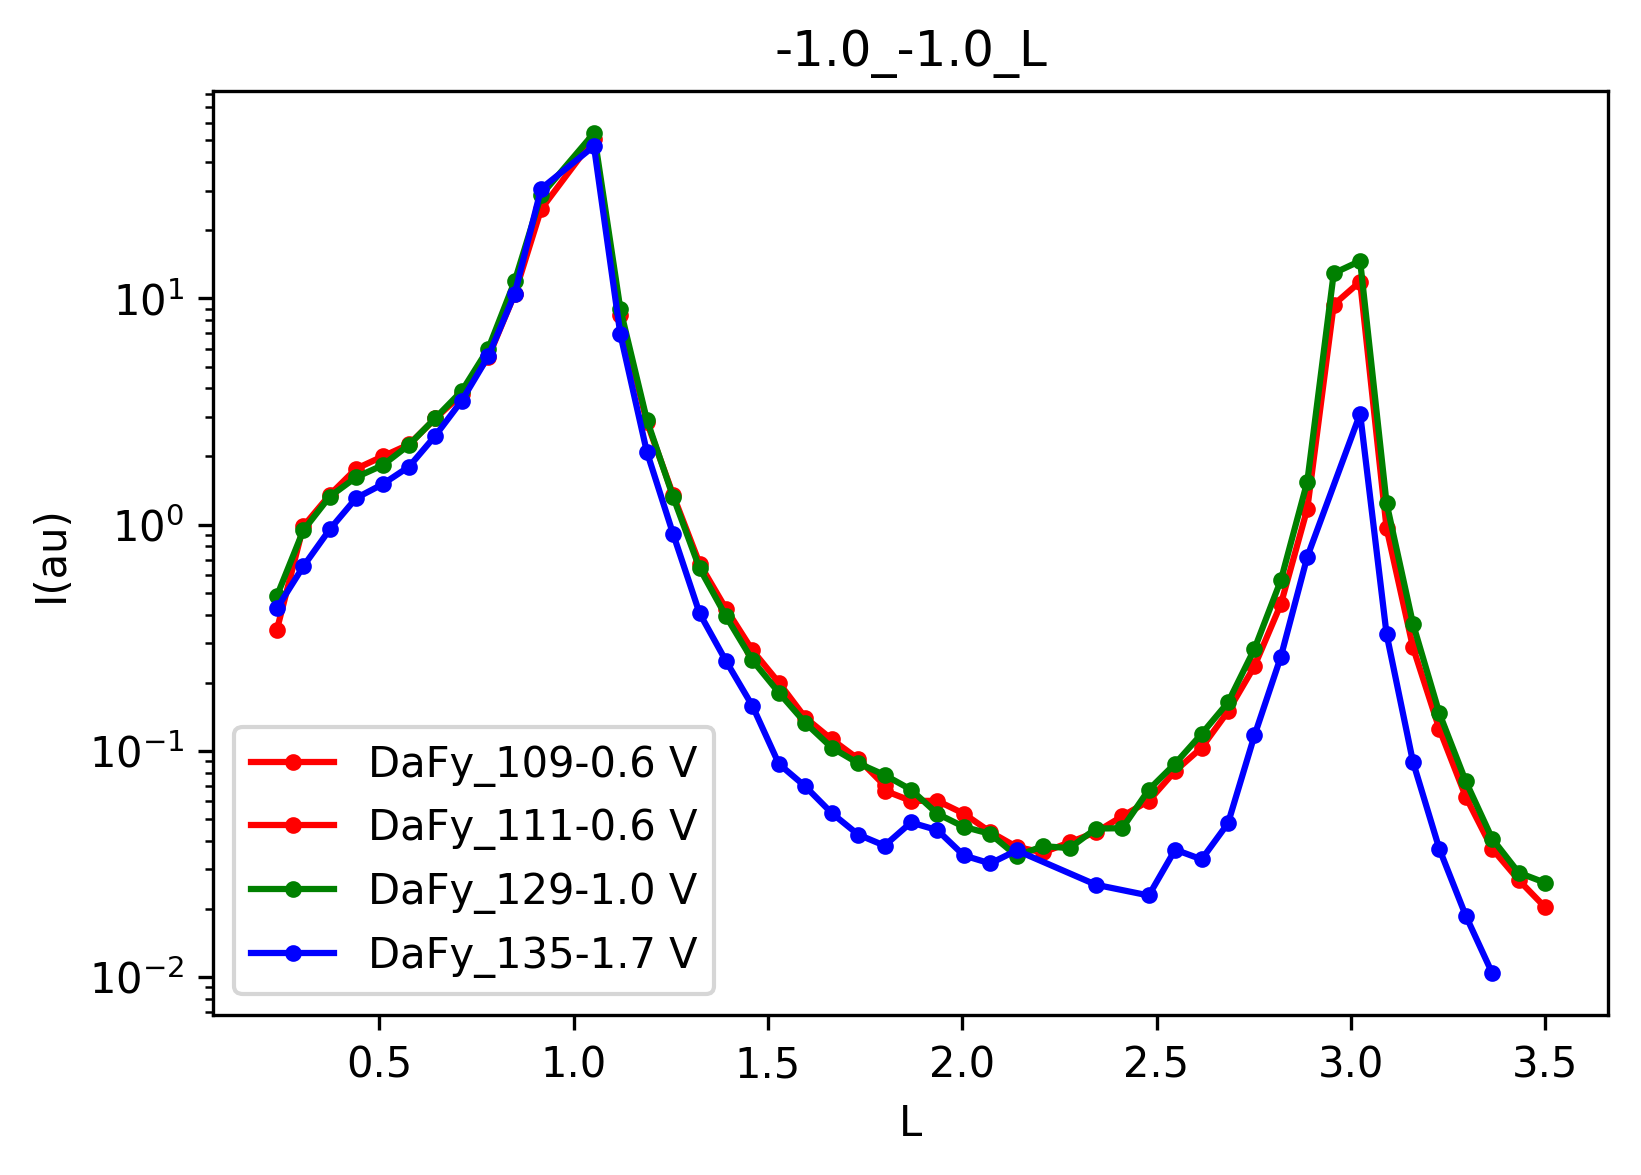
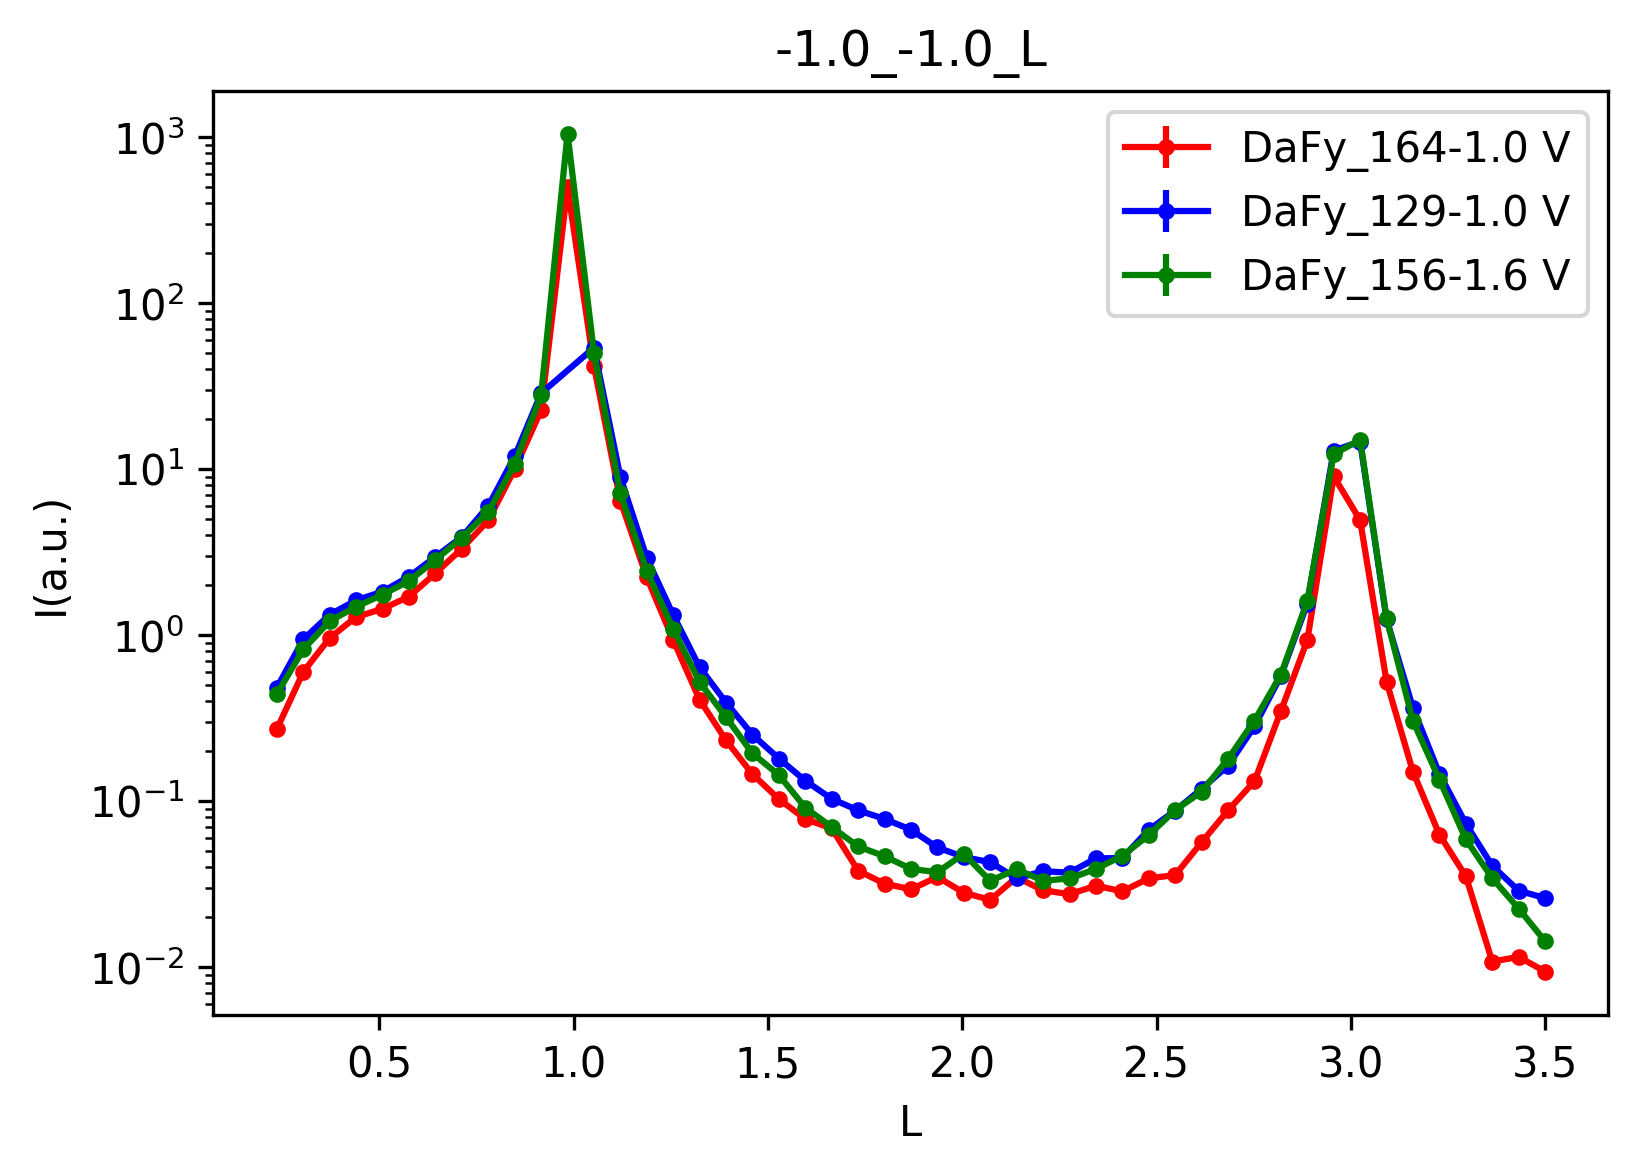
In CV_XRD ploting, it is possible to customize seting max to 0 for strain, size and intensity

diff --git a/CV_XRD_plot_beta.py b/CV_XRD_plot_beta.py
@@ -20,7 +20,7 @@ config_file_name = 'CV_XRD_plot_i20180835_Jul18_2019.ini'
 config_file = os.path.join(DaFy_path, 'config', config_file_name)
 
 #do you want to set the max to 0
-ref_max_eq_0 = 0
+ref_max_eq_0 = {'strain':1,'size':0,'intensity':0}
 
 #specify this for pot step scan
 scan_time = 100 #in seconds
@@ -323,12 +323,12 @@ for scan_id in scan_ids:
             else:
                 new_max = current_max
             return new_min, new_max
-        update_max_min = [_update_min_max_or_not,_update_min_or_not][ref_max_eq_0]
-        ip_strain_min, ip_strain_max = update_max_min(ip_strain_min,ip_strain_max, strain_ip_temp)
-        oop_strain_min, oop_strain_max = update_max_min(oop_strain_min,oop_strain_max, strain_oop_temp)
-        ip_size_min, ip_size_max = update_max_min(ip_size_min,ip_size_max, size_ip_temp)
-        oop_size_min, oop_size_max = update_max_min(oop_size_min,oop_size_max, size_oop_temp)
-        intensity_min, intensity_max = update_max_min(intensity_min,intensity_max, intensity_temp)
+        update_max_min = [_update_min_max_or_not,_update_min_or_not]
+        ip_strain_min, ip_strain_max = update_max_min[ref_max_eq_0['strain']](ip_strain_min,ip_strain_max, strain_ip_temp)
+        oop_strain_min, oop_strain_max = update_max_min[ref_max_eq_0['strain']](oop_strain_min,oop_strain_max, strain_oop_temp)
+        ip_size_min, ip_size_max = update_max_min[ref_max_eq_0['size']](ip_size_min,ip_size_max, size_ip_temp)
+        oop_size_min, oop_size_max = update_max_min[ref_max_eq_0['size']](oop_size_min,oop_size_max, size_oop_temp)
+        intensity_min, intensity_max = update_max_min[ref_max_eq_0['intensity']](intensity_min,intensity_max, intensity_temp)
         #now collect all axs for different data (exclude the first ax which is the single plot)
         ax_can_ip_strain = ax_can_ip_strain + ip_strain_axs[1:]
         ax_can_oop_strain = ax_can_oop_strain + oop_strain_axs[1:]
@@ -342,20 +342,21 @@ for scan_id in scan_ids:
                       [y_labels_lib['oop_size']]* len(oop_size_axs)+\
                       [y_labels_lib['intensity']]* len(intensity_axs)
 
-        def plot_on_ax(ax,x,data,y_label):
+        def plot_on_ax(ax,x,data,y_label,ref_max):
             # print(ax)
             #you need this to match the size of data other than strain and size
             if len(x)!=len(data):
                 x = x[0:-1]
-            ax.plot(x[indx1:indx2],set_max_to_0(data,[indx1,indx2],ref_max_eq_0),linestyle = 'none', linewidth =1,\
+            ax.plot(x[indx1:indx2],set_max_to_0(data,[indx1,indx2],ref_max),linestyle = 'none', linewidth =1,\
                     color = scan_info[scan_id].color, markerfacecolor = fillcolor,\
                     markeredgecolor = scan_info[scan_id].color,marker = marker, markersize=4,label = label)
             ax.set_ylabel(y_label)
             return None
-        for ax, data, y_label in zip(ip_strain_axs+oop_strain_axs+ip_size_axs+oop_size_axs+intensity_axs,\
+        for ax, data, y_label,ref in zip(ip_strain_axs+oop_strain_axs+ip_size_axs+oop_size_axs+intensity_axs,\
                             ip_strain_data_all+oop_strain_data_all+ip_size_data_all+oop_size_data_all+intensity_data_all,\
-                            y_labels_all):
-            plot_on_ax(ax,x,data,y_label)
+                            y_labels_all,[ref_max_eq_0['strain']]*(len(ip_strain_axs)*2)+\
+                            [ref_max_eq_0['size']]*(len(ip_strain_axs)*2)+[ref_max_eq_0['intensity']]*(len(ip_strain_axs)*1)):
+            plot_on_ax(ax,x,data,y_label,ref)
             ax.set_xlabel(x_label)
         #now plot current density
         if pos==0:
@@ -363,7 +364,7 @@ for scan_id in scan_ids:
                 colors_lib = {0:'sienna',1:'red',2:'green',3:'blue',4:'m',5:'black'}
                 #ax.plot(POT(cv_data[0], plot_vs_RHE, scan_info[scan_id].pH), cv_data[1]*1000*8*50, '-',\
                 #        color=scan_info[scan_id].color,linewidth=2,label=scan_info[scan_id].scan_label)
-                ax.plot(POT(cv_data[0], plot_vs_RHE, scan_info[scan_id].pH), cv_data[1]*(-8)*50, '-',\
+                ax.plot(POT(cv_data[0], plot_vs_RHE, scan_info[scan_id].pH), cv_data[1]*(-8)*50, 'x',\
                         color=scan_info[scan_id].color,linewidth=2,label=scan_info[scan_id].scan_label)
                 ax.set_xlabel(x_label)
                 ax.set_ylabel(y_labels_lib['current_den'])

diff --git a/plot_CTR.py b/plot_CTR.py
@@ -12,19 +12,27 @@ import configparser
 from scipy.ndimage import gaussian_filter
 from pylab import MultipleLocator, LogLocator, FormatStrFormatter
 from util.PlotSetup import *
+import copy
 
 # which_scans_to_plot = [102,104,118,126,133]
 # which_scans_to_plot = [109,111,120,129,135]
 # which_scans_to_plot = [114,123,131,137]
-which_scans_to_plot = [109,111,129,135]
+which_scans_to_plot = [109,111,129,135,147,156,164]
+which_scans_to_plot = [129,156,164]
+# which_scans_to_plot = [144,126,133,155,162]
+# which_scans_to_plot = [126,155,162]
 # which_scans_to_plot = [109,111,147]
 # which_scans_to_plot = [144,155,162]
 # which_scans_to_plot = [147,156,164]
 # which_scans_to_plot = [158,165]
 # which_scans_to_plot = [126,162]
-# which_scans_to_plot = [129,164]
+which_scans_to_plot = [584]
+# which_scans_to_plot = [78]
+# which_scans_to_plot = [141]
+# which_scans_to_plot = [580]
+# which_scans_to_plot = [584]
 
-# which_scans_to_plot = [97]
+# which_scans_to_plot = [109,111,129,135,147,164,156]
 config_file_name = 'CV_XRD_plot_i20180678_Jul23_2019.ini'
 config_file = os.path.join(DaFy_path, 'config', config_file_name)
 
@@ -42,7 +50,7 @@ config = configparser.ConfigParser()
 config.read(config_file)
 global_vals = ['scan_ids', 'scan_number', 'rod_scan', 'data_files', 'hkl', 'colors']
 plot_item_index = []
-scans_to_plot_original = which_scans_to_plot
+scans_to_plot_original = copy.deepcopy(which_scans_to_plot)
 for each in global_vals:
     globals()[each] = []
 
@@ -69,14 +77,19 @@ for val in global_vals:
     globals()[val]=[globals()[val][i] for i in plot_item_index]
 
 labels = ["-0.6 V","-0.6 V","-0.8 V","-1 V","-1.7 V","-1.6V"]
-colors = ["r","r","g","blue","m",'k']
+colors = ["r","blue","g","blue","m",'k','yellow']
 
 fig = plt.figure(figsize=(6,4))
 ax = fig.add_subplot(111)
 ax.set_yscale("log")
-# ax_2=ax.twinx()
-ax.set_ylabel('I(au)')
-# ax_2.set_ylabel('potential(V)')
+
+if not rod_scan[0]:
+    ax_2=ax.twinx()
+    ax_2.set_ylabel('potential(V)',color = 'blue')
+    ax.set_ylabel('I(a.u.)')
+else:
+    ax.set_ylabel('I(a.u.)')
+
 start = 0
 for i in range(len(data_files)):
     data = np.load(data_files[i])
@@ -87,18 +100,25 @@ for i in range(len(data_files)):
     I = data["peak_intensity"][start:]
     Ierr = data["peak_intensity_error"][start:]
     if rod_scan[i]:
-        ax.plot(L,I,".-",color = colors[i], label = scan_ids[i]+'{:3.1f} V'.format(data['potential'][0]))
+        ax.errorbar(L,I,yerr=Ierr,xerr=None,fmt=".-",color = colors[i], label = scan_ids[i]+'{:3.1f} V'.format(data['potential'][0]))
         plt.legend()
     else:
-        ax.plot(potential,I,".-",color = colors[i], label = scan_ids[i]+'{:3.1f} V'.format(data['potential'][0]))
-        # ax_2.plot(potential,color ='blue')
+        ax.errorbar(range(len(I)),I,yerr=Ierr,xerr=None,fmt=".-",color = colors[i], label = scan_ids[i]+'{:3.1f} V'.format(data['potential'][0]))
+        x_ticks = np.linspace(0,len(potential),5,endpoint = True)
+        x_ticks = [int(tick) for tick in x_ticks]
+        x_ticks[-1] = x_ticks[-1]-1
+        # ax.set_xticks(x_ticks)
+        # ax.set_xticklabels(['{}[{}V]'.format(tick,np.round(potential[tick],2))for tick in x_ticks])
+        ax_2.plot(potential,color ='blue')
 hkl_title = '{:3.1f}_{:3.1f}_L'.format(H[0],K[0])
 # ax.set_ylim(I.min(),10)
 # ax.set_ylim(0.0001,100)
 if rod_scan[0]:
     ax.set_xlabel('L')
 else:
-    ax.set_xlabel('Potential (V/AgCl')
+    # ax.set_xlabel('time[potential/AgCl]')
+    ax.set_xlabel('time')
+    ax.set_xlabel('NP')
 if not rod_scan[0]:
     hkl_title = 'XRV@hkl=({:3.1f},{:3.1f},{:3.1f})'.format(H[0],K[0],L[0])
     ax.set_ylim(I.min(),I.max())
@@ -106,5 +126,8 @@ plt.title(hkl_title)
 # if rod_scan[0]:
     # plt.legend()
 # fig.savefig('./plots/ctr_i20180678/20L.png',dpi=300, bbox_inches='tight')
-fig.savefig('{}.png'.format(hkl_title),dpi=300, bbox_inches='tight')
+if rod_scan[0]:
+    fig.savefig('{}.png'.format(hkl_title),dpi=300, bbox_inches='tight')
+else:
+    fig.savefig('{}_scan{}.png'.format(hkl_title,scans_to_plot_original),dpi=300, bbox_inches='tight')
 plt.show()
